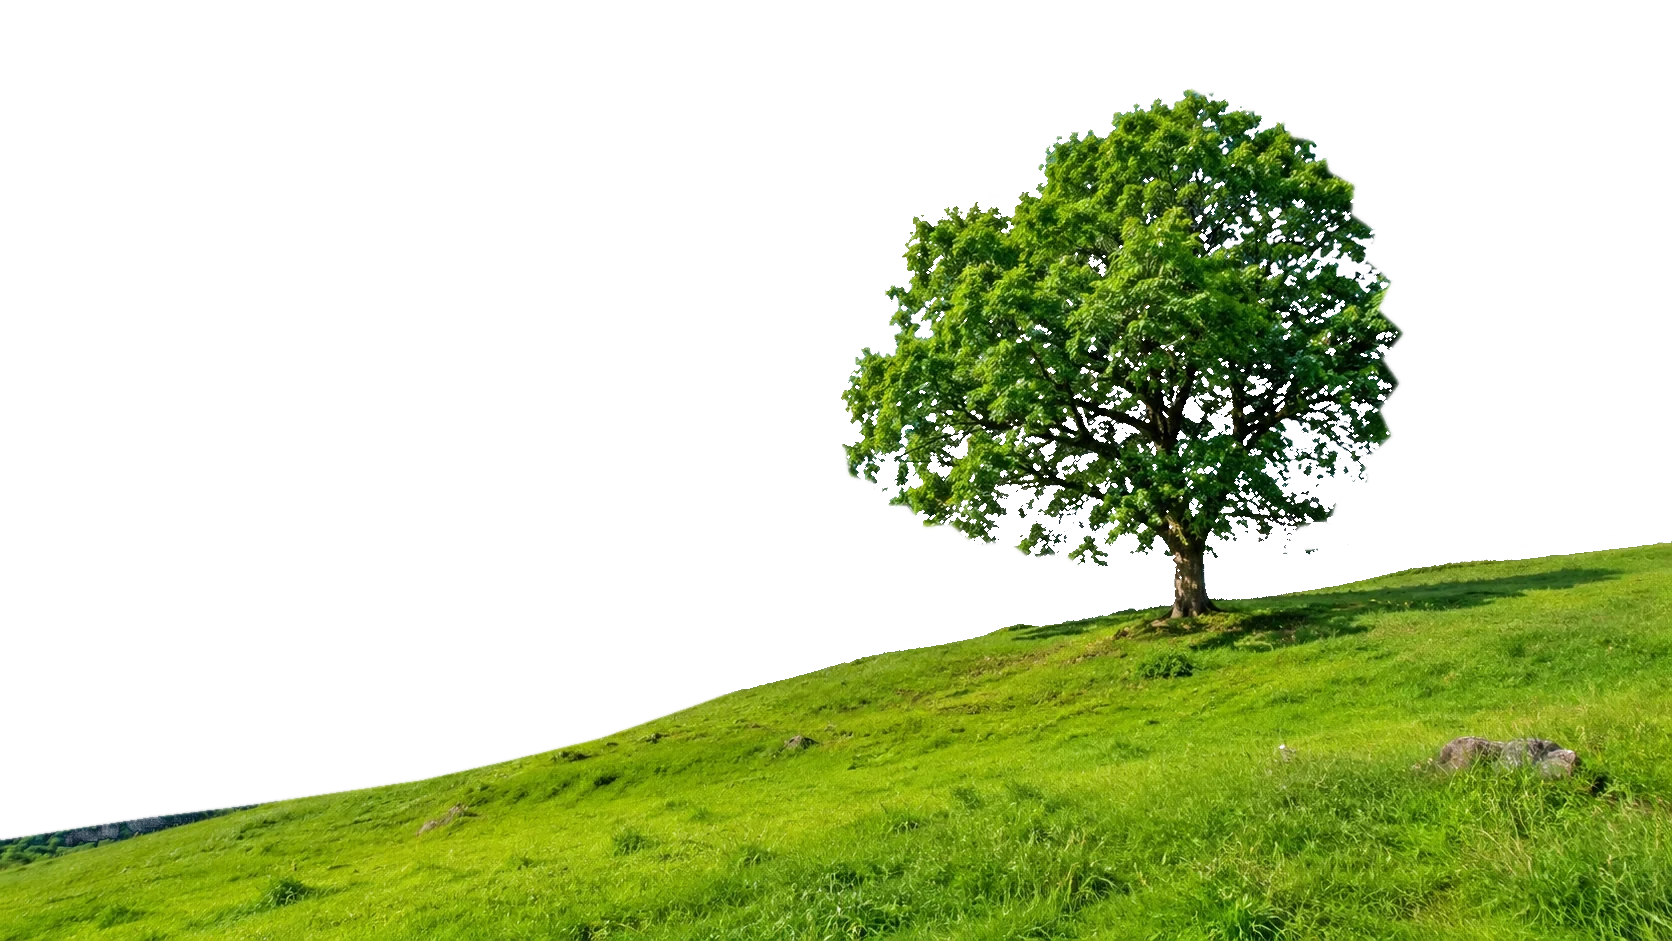
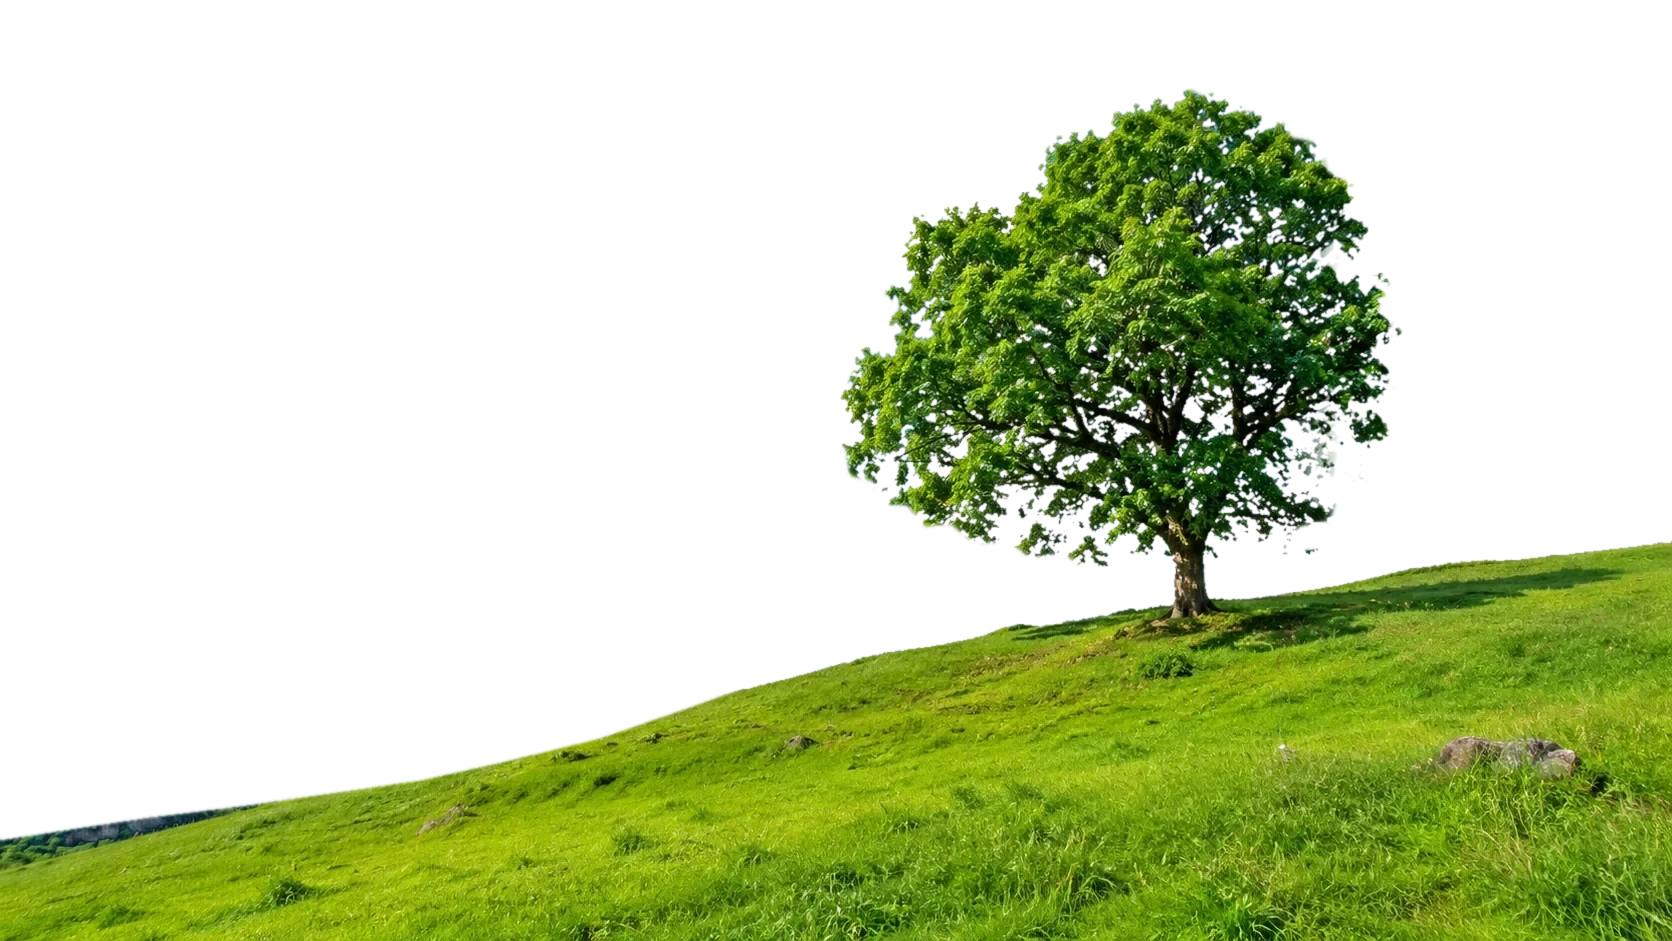
Árvore do hero: borda direita da copa ganha franja de folhas e o topo das camadas se dissolve
- o matte de front.webp deixava a copa como um corte reto contra a nuvem do céu
  (aparecia quando a paralaxe separava as camadas); scripts/soften-tree-edge.mjs
  refaz só essa faixa do alfa com ruído de folhas e um desfoque mínimo
- máscara de alfa no topo de far/front: em telas muito largas o cover corta a
  imagem por cima e a borda não vira mais uma linha reta

diff --git a/src/app/globals.css b/src/app/globals.css
@@ -291,6 +291,13 @@ a {
   will-change: transform, opacity;
   contain: layout style;
 }
+/* o topo das camadas de foto se dissolve: em telas bem largas o "cover" corta a copa por cima
+   e, sem isso, a borda da imagem apareceria como uma linha reta enquanto o morro desce */
+.ls-far img,
+.ls-front img {
+  -webkit-mask-image: linear-gradient(to bottom, transparent 0, #000 9%);
+  mask-image: linear-gradient(to bottom, transparent 0, #000 9%);
+}
 /* nuvens persistentes de fundo: a mesma foto em 3 profundidades (só transform e opacity) */
 .ls-clouds {
   position: fixed;
